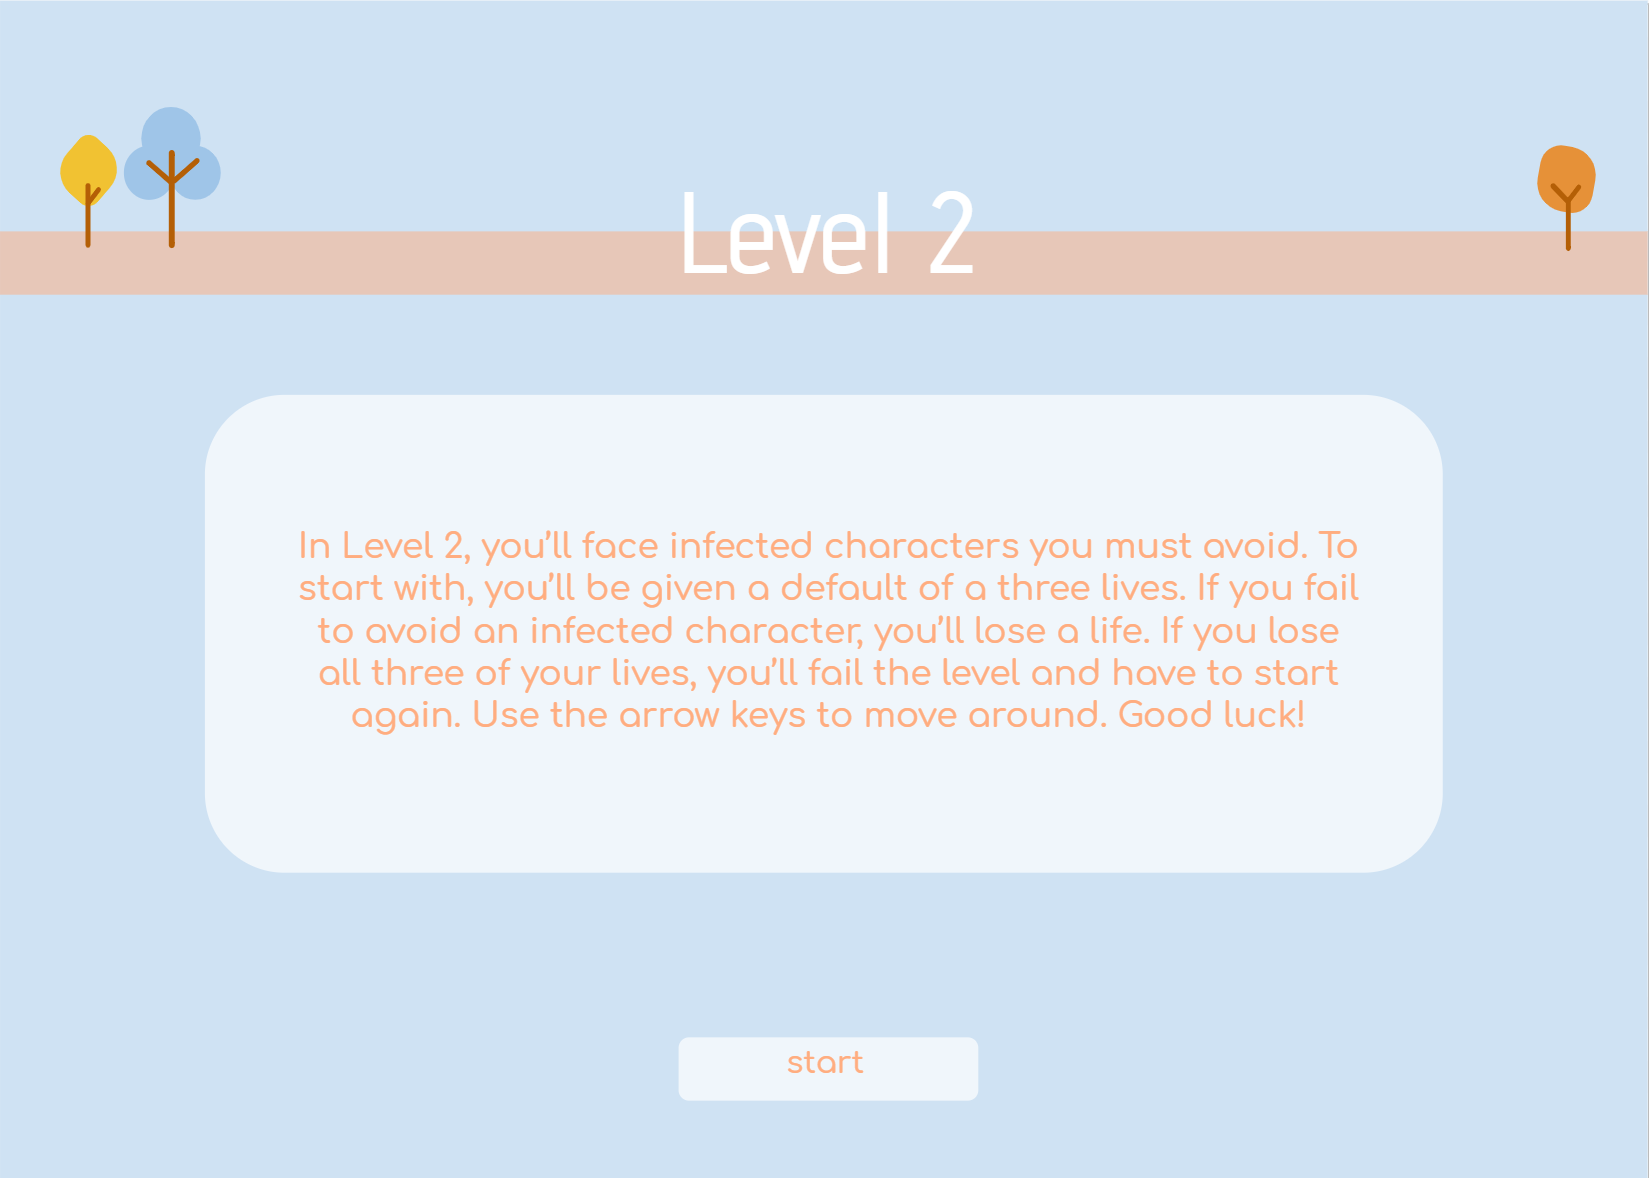
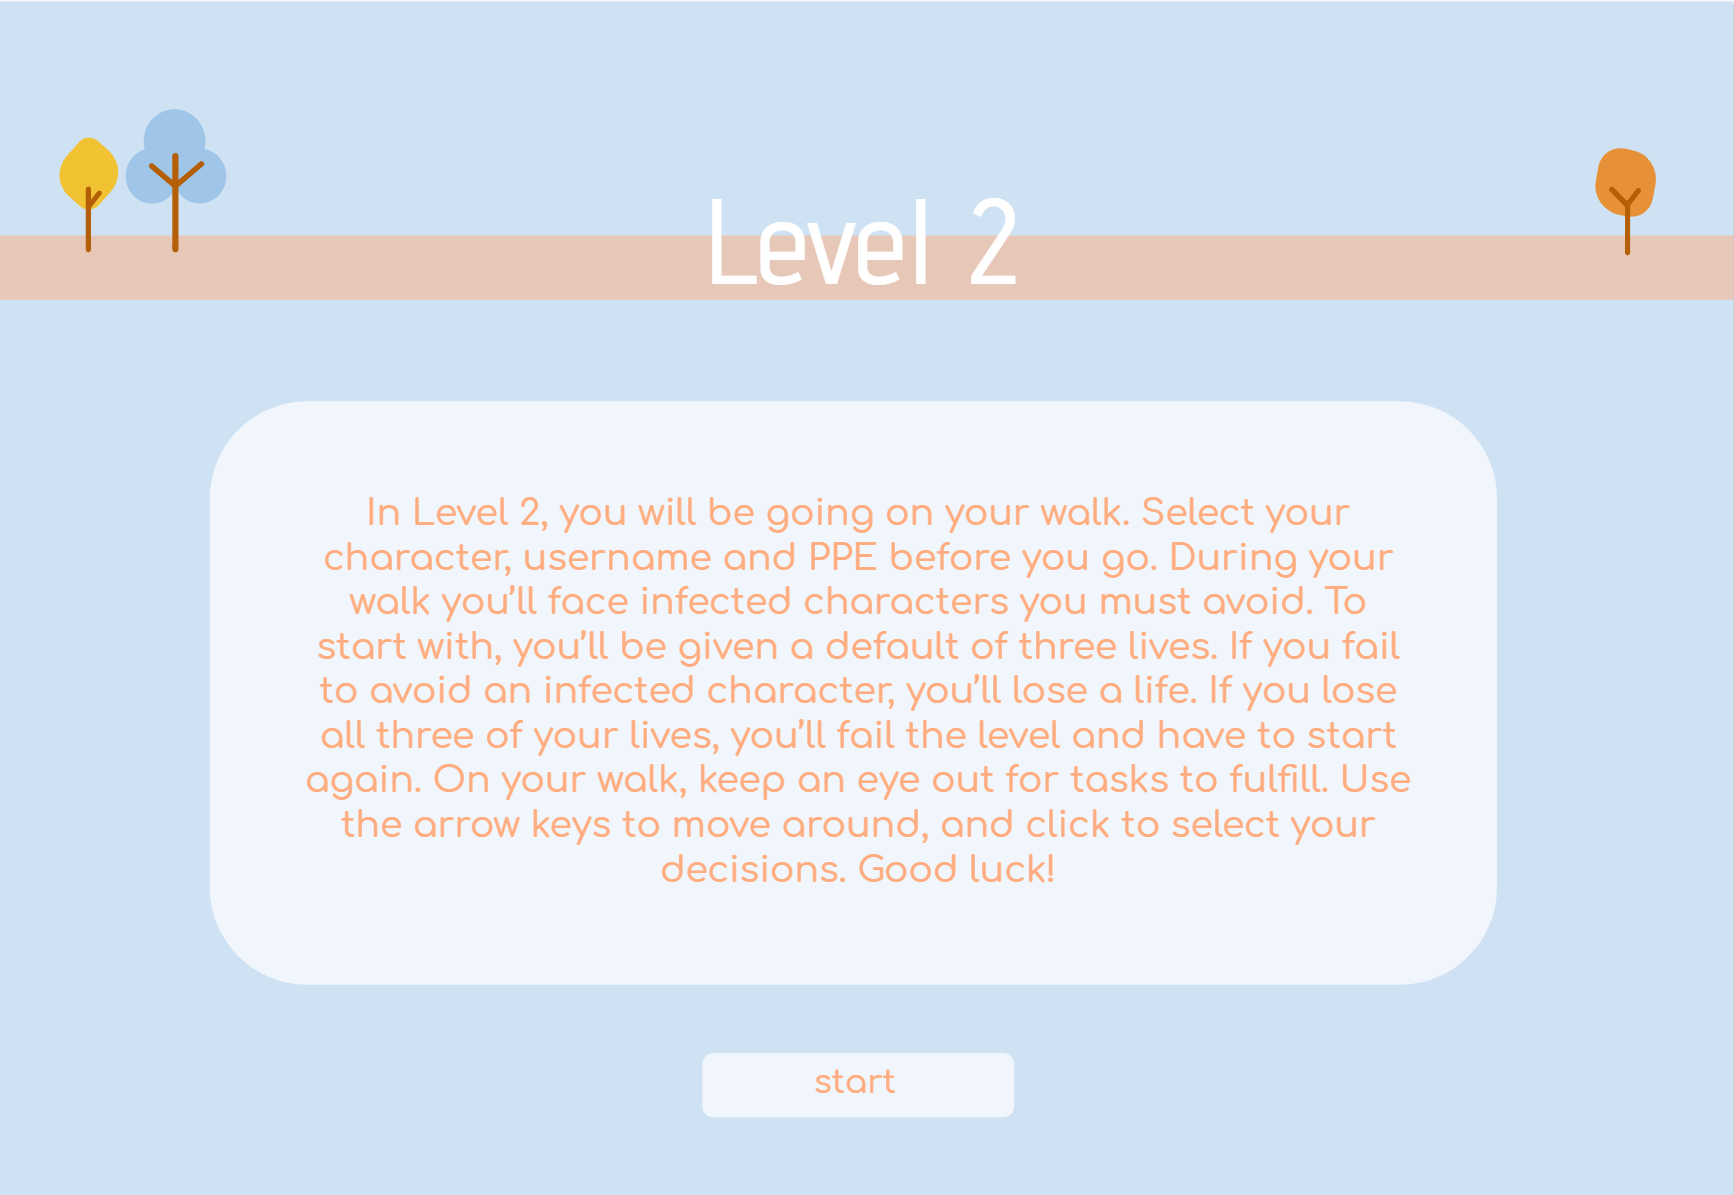
images

diff --git a/src/UserInput.java b/src/UserInput.java
@@ -47,9 +47,9 @@ public class UserInput {
 
     Image backgroundImg = (new ImageIcon(Main.class.getResource("Level 2 background (1).png"))).getImage()
             .getScaledInstance(7000, 500, java.awt.Image.SCALE_SMOOTH);
-    Image landing1 = (new ImageIcon(Main.class.getResource("Landing-task1.png"))).getImage()
+    Image landing1 = (new ImageIcon(Main.class.getResource("FINAL Task 1.PNG"))).getImage()
     .getScaledInstance(730, 500, java.awt.Image.SCALE_SMOOTH);
-    Image landing2 = (new ImageIcon(Main.class.getResource("Landing-task2.png"))).getImage()
+    Image landing2 = (new ImageIcon(Main.class.getResource("FINAL Task 2.PNG"))).getImage()
     .getScaledInstance(730, 500, java.awt.Image.SCALE_SMOOTH);
 
 
